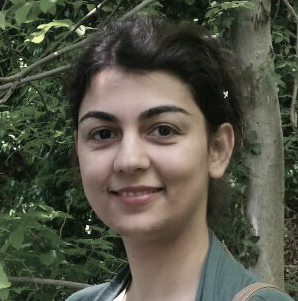
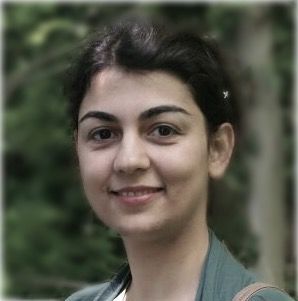
description and photo updated

diff --git a/content/authors/Payam Zahadat/_index.md b/content/authors/Payam Zahadat/_index.md
@@ -23,9 +23,11 @@ bio: My research focuses on swarm robotics and collecive intelligent systems. I 
 # Interests to show in About widget
 interests:
 - Swarm robotics
+- Evolutionary robotics
 - Collective intelligence
 - Bio-inspired computation
-- Complex and self-organized systems
+- self-organizing systems
+- Complex systems
 
 # Education to show in About widget
 education:
@@ -47,16 +49,10 @@ education:
 social:
 - icon: envelope
   icon_pack: fas
-  link: 'mailto:paza@itu.dk'
-- icon: twitter
-  icon_pack: fab
-  link: https://twitter.com/PayamZahadat
+  link: 'mailto:paza at itu.dk'
 - icon: graduation-cap  # Alternatively, use `google-scholar` icon from `ai` icon pack
   icon_pack: fas
   link: https://scholar.google.com/citations?user=eFKr5EIAAAAJ&hl=en
-- icon: github
-  icon_pack: fab
-  link: https://github.com/pzahadat
 - icon: linkedin
   icon_pack: fab
   link: https://www.linkedin.com/in/payam-zahadat-b554091b/
@@ -75,7 +71,4 @@ email: ""
 highlight_name: false
 ---
 
-I am an assistant professor at the computer science department of the IT University of Copenahgen, Denmark. Before that, I was a university assistant and postdoc at the University of Graz, Austria, and a research assistant at the Modular Robotics Lab, the Maersk McKinney Moller Institute, University of Southern Denmark. During the last years, I have been part of several EU-funded projects, i.e., florarobotica, ASSISIbf, CoCoRo, SYMBRION and REPLICATOR, and Locomorph. My research interests include both theoretical studies and applications in the field of swarm robotics and multi-modular robotics, collective intelligence, self-organizing systems, evolutionary robotics, and bio-inspired computation.
-
-{{< icon name="download" pack="fas" >}} Download my {{< staticref "media/demo_resume.pdf" "newtab" >}}resumé{{< /staticref >}}.
-
+My research includes both theoretical studies and applications in the field of swarm robotics and modular robotics, collective intelligence, self-organizing systems, evolutionary robotics, and bio-inspired computation.
